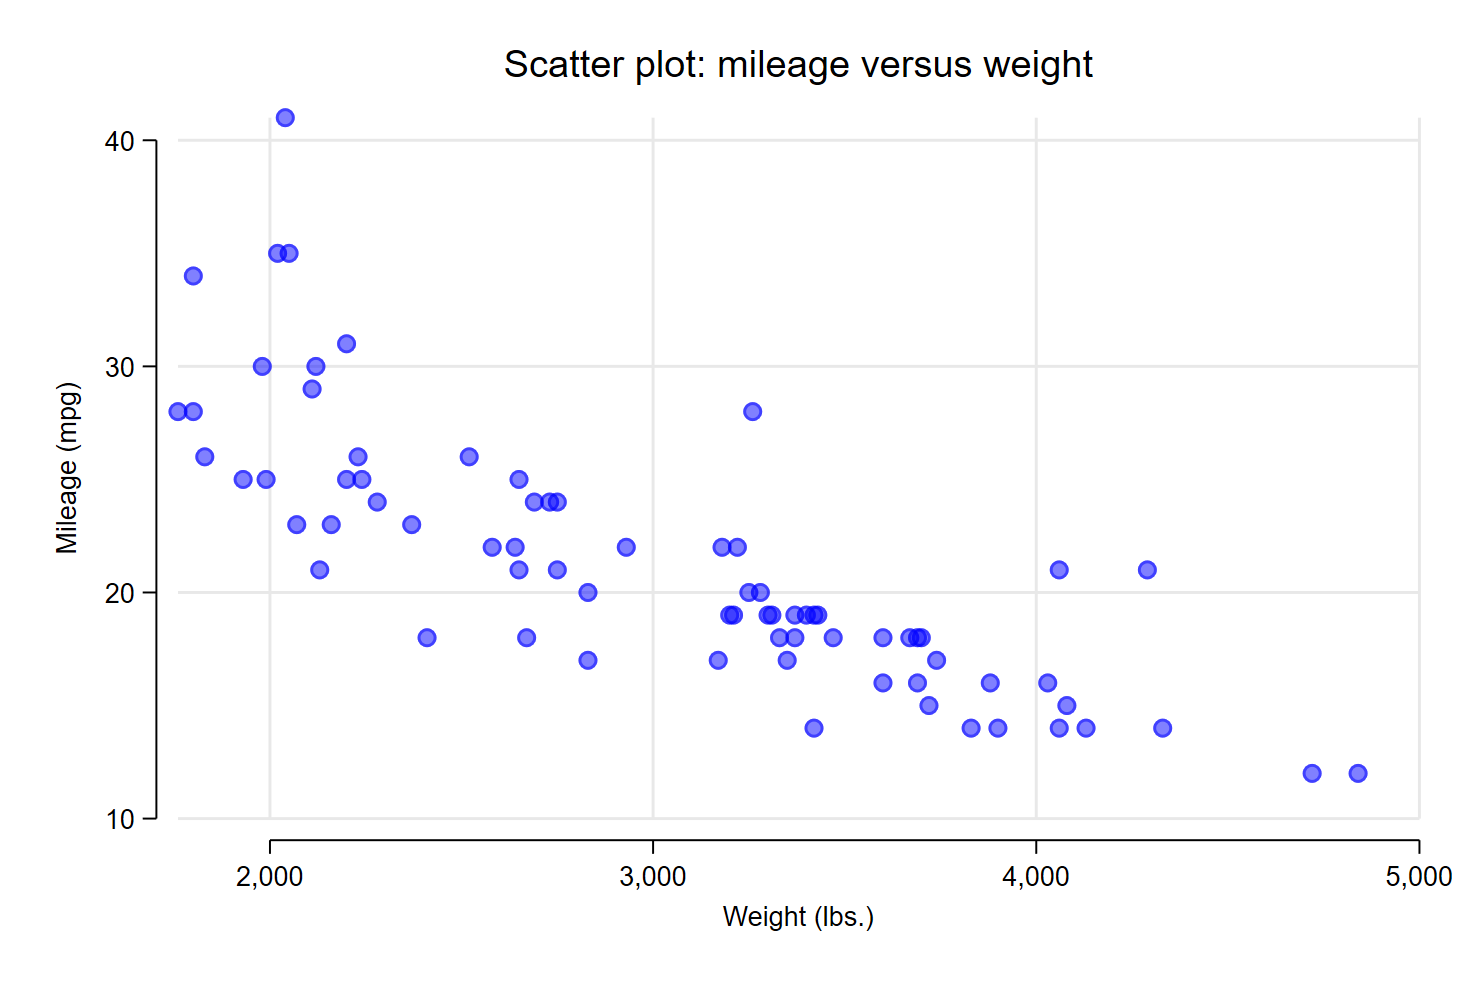
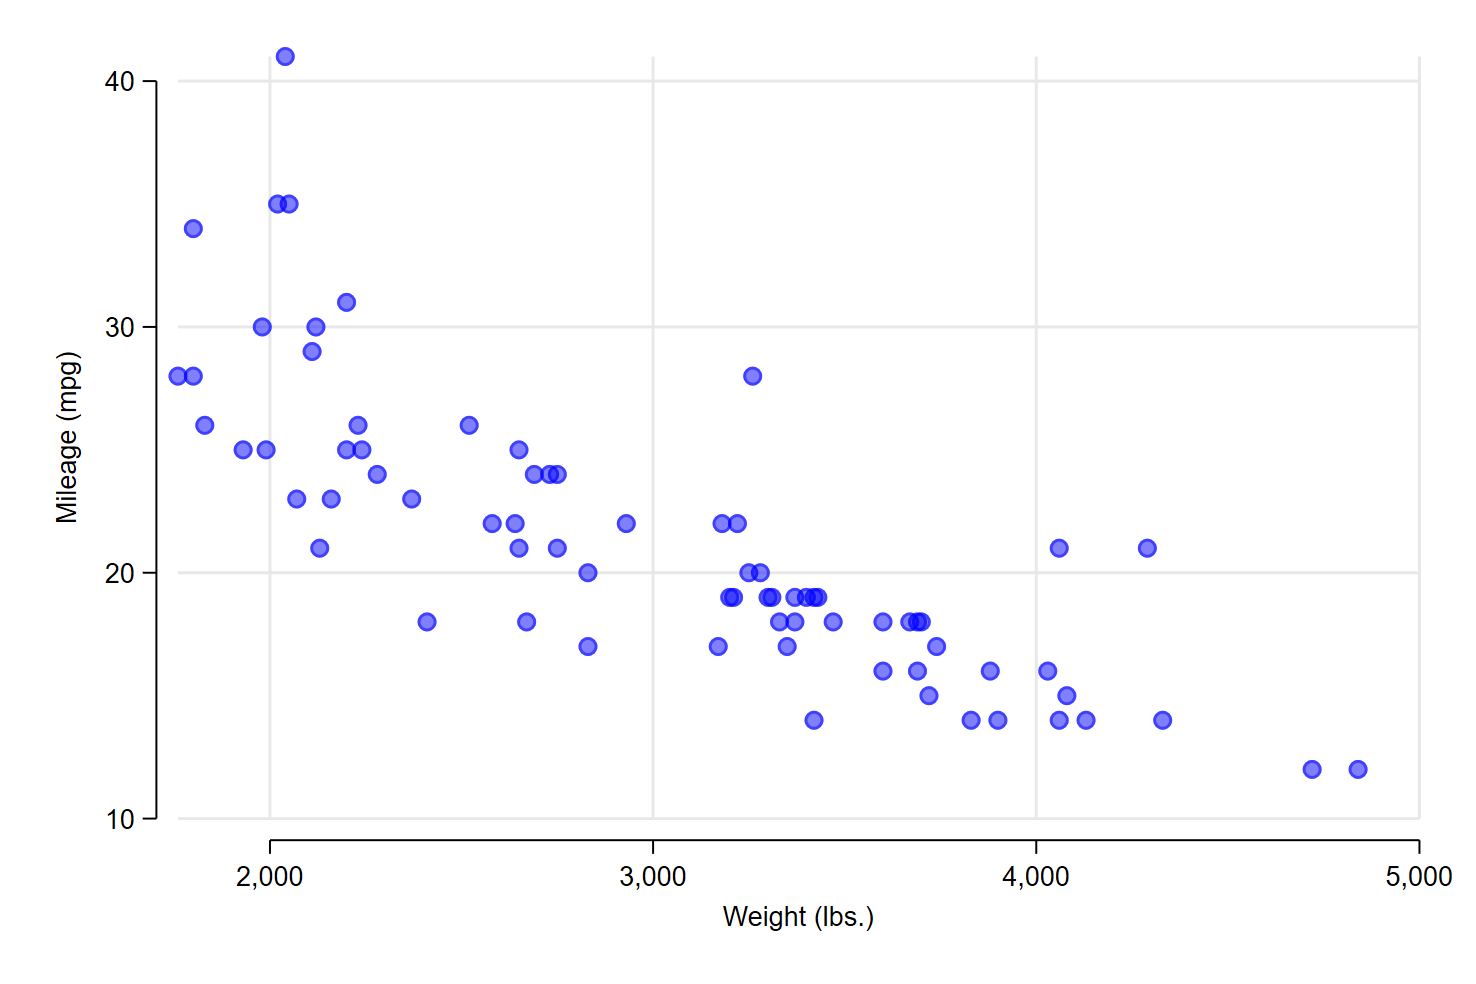
updates

diff --git a/content/econometrics/Lecture 02/Section 1.md b/content/econometrics/Lecture 02/Section 1.md
@@ -11,16 +11,18 @@ type: book  # Do not modify.
 ---
 ## What is Ordinary Least Squares (OLS)?
 
-OLS is the most common method to estimate the *parameters* of a linear regression such that the sum of the **square errors** are minimized. In more general terms, OLS is one application of a group of *linear least squares* methods.
+[OLS](https://en.wikipedia.org/wiki/Ordinary_least_squares) is the most common method to estimate the *parameters* of a linear regression such that the sum of the **square errors** is minimized. In more general terms, OLS is one application of a group of *linear least squares* methods.
 
-Assume we want to estimate the linear relationship between mileage (mpg) $(Y)$ of autombiles with respect to its weight $(x_1)$. The dependent variable is $Y$ and $x_1$ is the regressor. Then, we are assuming that $Y$ has some sort of linear relationship with respect to its weight.
+Assume we want to estimate the linear relationship between mileage (mpg) $(Y)$ of autombiles with respect to its weight $(x_1)$. The dependent variable is $Y$ and $x_1$ is the regressor. Then, we are assuming that $Y$ has a linear relationship with respect to its weight.
 
 Let $n = 1,...,N$ be the number of observations; that is, how many mileage and weight observations we have at our disposal. The theoretical representation of this relationship is the following.
 
 $$ mpg_n = \beta_0 + \beta_1 weight_n + \varepsilon_n  $$
 $$ Y_n = \beta_0 + \beta_1 x_{1,n} + \varepsilon_n $$
 
-The error term $(\varepsilon)$ is capturing random situation that would affect the mileage of the car, such as weather conditions, average speed of the driver, or altitude. 
+The error term $(\varepsilon)$ is capturing random situation that would affect the mileage of the car, such as weather conditions, average speed of the driver, or altitude.
+
+Let's use the 1978 automobile dataset in `STATA` and run a [scatter plot](https://en.wikipedia.org/wiki/Scatter_plot) between mileage and weight. The following `STATA` code will produce the scatter plot ([Figure 1](#Figure--scatter-plot-mileage-versus-weight)). The dataset has 74 observations, therefore the scatter plot will have 74 points (mileage-weight relationships).
 
 
 ```stata
@@ -38,7 +40,6 @@ sysuse auto				// Load 1978 Automobile Data from STATA
 *|CELL 2|----------------------------------------------------------------------*
 *|Build scatter plots
 twoway scatter mpg weight, ///
-	   title("Scatter plot: mileage versus weight", size(medium)) ///
 	   mcolor(blue%50) ///
 	   xlabel(, grid labsize(small)) xtitle(, size(small)) ///
 	   ylabel(, grid labsize(small)) ytitle(, size(small))
@@ -47,7 +48,6 @@ twoway scatter mpg weight, ///
 *|THE END|=====================================================================*
 *==============================================================================*
 ```
-New try  
-{{< figure library="true" src="lecture 01/Fig 1.01.png" numbered="true" title="Scatter plot: Mileage versus Weight">}}  
+{{< figure library="true" src="lecture 01/Fig 1.01.png" numbered="true" title=" Scatter plot: Mileage versus Weight">}}  
 
 
